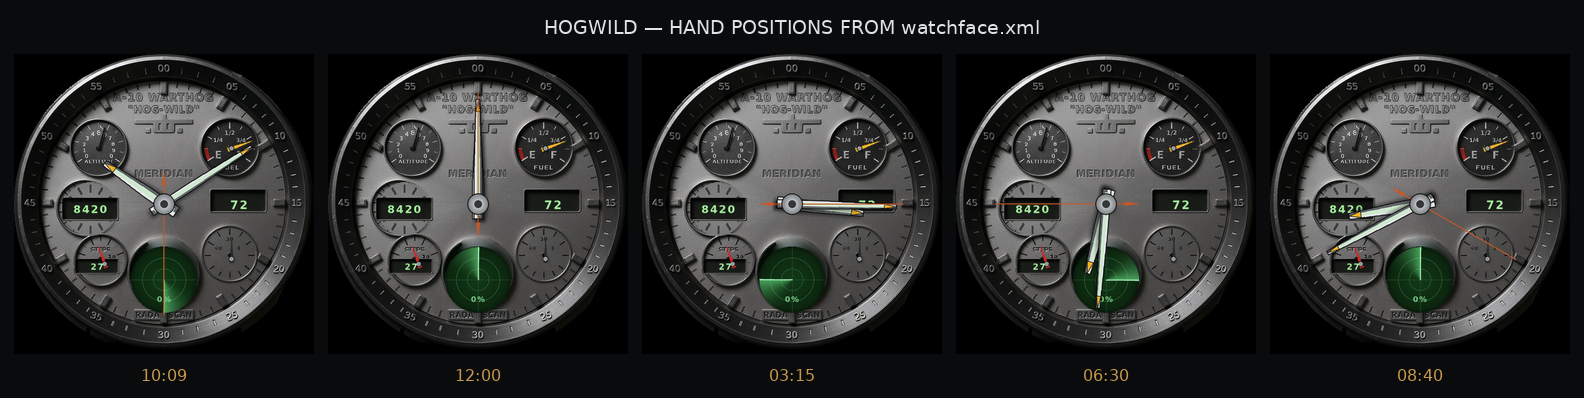
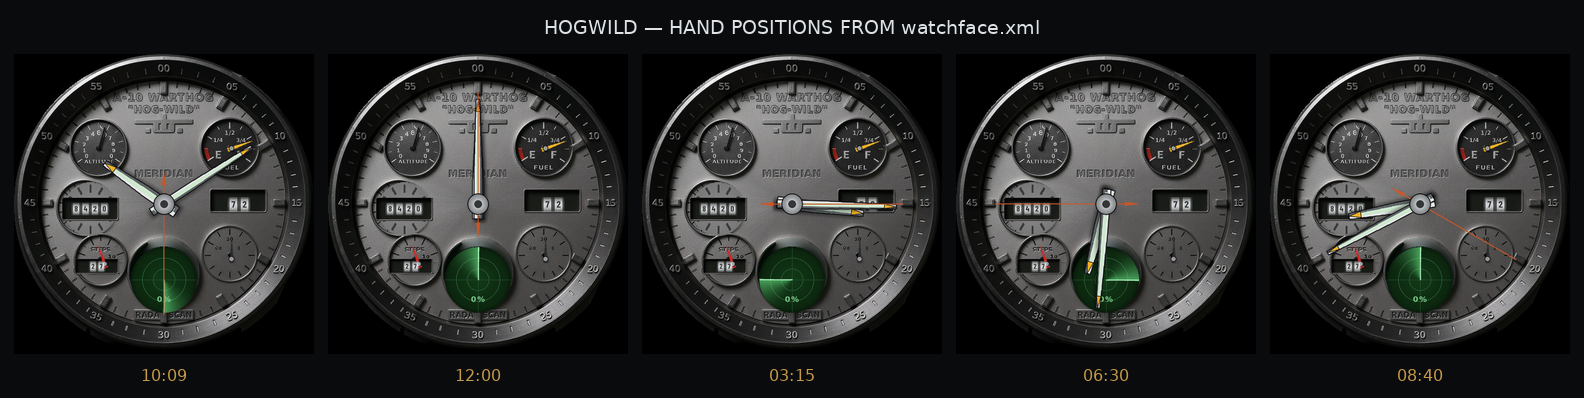
HOG-WILD 1.3.1: combination-lock wheels for the live numbers
Owner call on 1.3.0: the readouts would look better "metal and knurled and
rotatable like the numbers on a suitcase lock". Correct — the design
language says instrumentation, never a widget, and phosphor is a screen.

- tools/make_wheel_font.py draws the `wheel` bitmap font: each glyph a
  complete lock wheel — knurled flanks that seam into a wheel bank when
  cells sit flush, cylindrical drum shading, engraved numeral (Barlow
  Condensed Bold, shadowed upper edge / lit lower lip). Bitmap fonts are
  alpha masks (colour is discarded and replaced by the BitmapFont colour),
  so the wheel ships as relief in the alpha channel; the engraved cut goes
  transparent and the aperture's darkness does the ink's job.
- face.toml: steps, heart rate and date move to wheel digits in steel
  (#E8EAEE); the scope percentage stays phosphor — printed on a CRT, not
  machined into one. HR gains a lume twin (alpha 0 normal / 120 AOD) so
  ambient keeps its outline-and-lume theme instead of glowing steel.
- wffgen: text_line grows `alpha` (normal-mode, default 255) to enable the
  AOD-twin pattern; the attribute is emitted only when non-default, so
  warthog / attitude-meridian / aurelius stay byte-identical (drift-checked).

WFF cannot roll a drum on a text element: the rotation is sold by shading.
38 tests pass, WFF v4 validator PASSED. 1.3.0-dev (7) -> 1.3.1-dev (8).

Claude-Session: https://claude.ai/code/session_012oBAeTzEMH5P89VxC7vfDR

diff --git a/tools/make_wheel_font.py b/tools/make_wheel_font.py
@@ -1,0 +1,140 @@
+#!/usr/bin/env python3
+"""Combination-lock wheel digits for HOG-WILD: the `wheel` bitmap font.
+
+The 1.3.0 readability pass put the live numbers in honest apertures, but it
+painted them as LCD phosphor — a screen, on a dial whose design language
+says instrumentation, never a widget. A cockpit counter is a drum: this
+draws every digit as one wheel of a combination lock seen through its slot.
+
+ANATOMY OF A CELL. Each glyph is a complete wheel column, so a multi-digit
+reading composes into a wheel bank with no extra layout work:
+
+- knurled flanks: horizontal ridge serrations at both edges — the grip you
+  would thumb to spin the wheel, and the visual seam between adjacent
+  wheels when cells sit flush;
+- drum face: brushed steel with a cylindrical vertical falloff — bright at
+  the equator, rolling off dark at top and bottom, with detent shadow lines
+  where the neighbouring digit positions turn away;
+- numeral: engraved, not printed — dark fill, shadowed upper edge, lit
+  lower lip, per roadmap/DESIGN_LANGUAGE.md.
+
+BITMAP FONTS ARE ALPHA MASKS. The format's text pipeline keeps a glyph's
+alpha channel and replaces its colour wholesale with the BitmapFont colour
+attribute (tools/render_face_from_xml.py `tint()` models this). A glyph
+therefore cannot ship colour — it ships RELIEF: the wheel is drawn in
+luminance and the luminance becomes alpha, so the declared steel tint reads
+at full strength on the drum's lit equator, thins toward the rolled-away
+edges, and vanishes in the engraved digit cut, where the aperture's own
+darkness does the ink's job. WFF cannot roll a drum on a text element —
+the rotation is sold by shading, not animation.
+
+Deterministic: pure function of geometry; no seeds, no timestamps.
+
+Usage:
+    python3 tools/make_wheel_font.py            # report
+    python3 tools/make_wheel_font.py --write
+"""
+
+from __future__ import annotations
+
+import argparse
+import math
+import sys
+from pathlib import Path
+
+from PIL import Image, ImageDraw, ImageFont
+
+REPO = Path(__file__).resolve().parent.parent
+DRAWABLE = REPO / "watchfaces/hogwild/app/src/main/res/drawable"
+FONT_TTF = Path.home() / ".local/share/fonts/BarlowCondensed-Bold.ttf"
+
+SS = 4                       # supersample factor
+CELL_W, CELL_H = 34, 46      # shipped glyph size (declared in face.toml)
+FLANK_W = 5                  # knurled strip width per side, shipped px
+
+
+def drum_shade(y: float, h: float) -> float:
+    """Cylinder illumination for a horizontal-axis drum: 1.0 at the
+    equator, rolling off with the cosine of the wrap angle."""
+    t = abs(y - h / 2) / (h / 2)         # 0 centre -> 1 edge
+    return max(0.18, math.cos(t * 1.25))
+
+
+def draw_wheel(digit: str) -> Image.Image:
+    w, h = CELL_W * SS, CELL_H * SS
+    img = Image.new("RGBA", (w, h), (0, 0, 0, 255))
+    d = ImageDraw.Draw(img)
+    flank = FLANK_W * SS
+
+    # ---- drum face: brushed steel under cylindrical light ----
+    face_x0, face_x1 = flank, w - flank
+    for y in range(h):
+        s = drum_shade(y, h)
+        base = 168 * s
+        # fine vertical brushing: a deterministic per-column jitter
+        for x in range(face_x0, face_x1):
+            b = base + 14 * math.sin(x * 1.7 + (x % 5)) * 0.5
+            v = int(max(12, min(236, b)))
+            d.point((x, y), (v, v, min(255, v + 4), 255))
+
+    # detent shadows where the neighbour digit positions turn away
+    for yy in (int(h * 0.06), int(h * 0.94)):
+        d.line([(face_x0, yy), (face_x1, yy)], fill=(10, 10, 12, 255),
+               width=SS)
+
+    # ---- knurled flanks: horizontal ridges, darker than the face ----
+    ridge_p = 3 * SS                     # ridge period
+    for side_x0 in (0, w - flank):
+        for y in range(h):
+            s = drum_shade(y, h) * 0.62
+            phase = (y % ridge_p) / ridge_p
+            ridge = 0.55 + 0.45 * math.cos(phase * 2 * math.pi)
+            v = int(max(6, min(190, 150 * s * ridge)))
+            d.line([(side_x0, y), (side_x0 + flank - 1, y)],
+                   fill=(v, v, v, 255))
+        # seam between flank and face
+        seam_x = side_x0 + (flank - SS if side_x0 == 0 else 0)
+        d.rectangle([seam_x, 0, seam_x + SS - 1, h], fill=(8, 8, 9, 255))
+
+    # ---- the numeral: engraved into the drum ----
+    fnt = ImageFont.truetype(str(FONT_TTF), int(h * 0.62))
+    bbox = d.textbbox((0, 0), digit, font=fnt)
+    tx = (face_x0 + face_x1) / 2 - (bbox[0] + bbox[2]) / 2
+    ty = h / 2 - (bbox[1] + bbox[3]) / 2
+    # lit lower lip first, then the dark cut over it
+    d.text((tx, ty + SS), digit, font=fnt, fill=(228, 230, 234, 200))
+    d.text((tx, ty - SS // 2), digit, font=fnt, fill=(24, 25, 28, 255))
+
+    img = img.resize((CELL_W, CELL_H), Image.LANCZOS)
+
+    # luminance -> alpha (boosted so lit steel renders near-solid), colour
+    # discarded: the BitmapFont tint supplies it at render time
+    lum = img.convert("L").point(lambda v: min(255, int(v * 1.35)))
+    out = Image.new("RGBA", img.size, (255, 255, 255, 0))
+    out.putalpha(lum)
+    return out
+
+
+def main() -> int:
+    ap = argparse.ArgumentParser()
+    ap.add_argument("--write", action="store_true")
+    args = ap.parse_args()
+
+    if not FONT_TTF.exists():
+        print(f"missing numeral typeface: {FONT_TTF}", file=sys.stderr)
+        return 1
+
+    for n in range(10):
+        glyph = draw_wheel(str(n))
+        out = DRAWABLE / f"w_{n}.png"
+        if args.write:
+            glyph.save(out)
+            print(f"wrote {out.relative_to(REPO)}")
+        else:
+            print(f"would write {out.relative_to(REPO)}  "
+                  f"({CELL_W}x{CELL_H})")
+    return 0
+
+
+if __name__ == "__main__":
+    sys.exit(main())

diff --git a/engine/wffgen/components.py b/engine/wffgen/components.py
@@ -695,9 +695,13 @@ def horizon_field(name: str, resource: str, box: dict, aod: AmbientPolicy,
 def text_line(name: str, box: dict, aod: AmbientPolicy, font_family: str,
               size: int, color: str, template: str,
               expressions_: list[str], align: str = "CENTER",
-              gate: str | None = None) -> Component:
+              gate: str | None = None, alpha: int = 255) -> Component:
     """Generic bitmap-font text line with N parameters (digital time, data
     readouts). Non-Aurelius generalization of date_text, used by fixtures.
+
+    `alpha` is the NORMAL-mode alpha: 0 with an ambient policy of 255
+    gives an AOD-only readout, the textual twin of static_image's swap
+    mechanism — how a face trades photoreal digits for lume ones at night.
 
     `gate` is an optional boolean expression; when given, the text is wrapped
     in a Condition so it only paints while the expression holds. A readout
@@ -706,9 +710,11 @@ def text_line(name: str, box: dict, aod: AmbientPolicy, font_family: str,
     plausible-looking zero — and a scope legend reading "0%" in weather the
     provider never measured is a lie with confident typography.
     """
-    part = Elem("PartText", {"name": name, "x": str(box["x"]),
-                             "y": str(box["y"]), "width": str(box["width"]),
-                             "height": str(box["height"])})
+    attrs = {"name": name, "x": str(box["x"]), "y": str(box["y"]),
+             "width": str(box["width"]), "height": str(box["height"])}
+    if alpha != 255:          # emitted only when it departs from the
+        attrs["alpha"] = str(alpha)   # default, so existing faces don't drift
+    part = Elem("PartText", attrs)
     part.child(aod.variant())
     tmpl = Elem("Template", text=template)
     for e in expressions_:

diff --git a/engine/wffgen/spec.py b/engine/wffgen/spec.py
@@ -161,7 +161,8 @@ def _build(entry: dict) -> list[C.Component]:
                             int(entry["size"]), entry["color"],
                             entry["template"], list(entry["expressions"]),
                             entry.get("align", "CENTER"),
-                            entry.get("gate"))]
+                            entry.get("gate"),
+                            int(entry.get("alpha", 255)))]
     raise ValueError(f"unknown component type {kind!r} — registry: "
                      "background_pair, rotating_image, seconds_rotor, "
                      "tap_sequence, weather_scene, animated_weather, "

diff --git a/watchfaces/hogwild/README.md b/watchfaces/hogwild/README.md
@@ -29,9 +29,9 @@ moving part became its own layer:
 | **RPM needle** | `[HEART_RATE]`, oscillating |
 | **Radar sweep** | elapsed time, four seconds per revolution |
 | **Radar returns** | `[WEATHER.CHANCE_OF_PRECIPITATION]` painted as PPI echoes, plus a printed percentage on the glass, gated on `[WEATHER.IS_AVAILABLE]` |
-| LCD aperture (3h) | `[HEART_RATE]` — the RPM needle carries the rhythm, this carries the number |
-| LCD aperture (9h) | `[STEP_COUNT]` at size 20, in the sub-dial that used to be painted furniture |
-| Date aperture | `[DAY]`, in the old odometer barrel — two digits, which is what the window has room for |
+| Wheel bank (3h) | `[HEART_RATE]` — the RPM needle carries the rhythm, the wheels carry the number; a green lume twin takes over in ambient |
+| Wheel bank (9h) | `[STEP_COUNT]`, in the sub-dial that used to be painted furniture |
+| Wheel bank (date) | `[DAY]`, in the old odometer barrel — two wheels, which is what the window has room for |
 
 Each needle sits on a sprite sized to its own sub-dial, so WFF pivots it about
 that gauge's centre rather than the dial centre. That is why the boxes in
@@ -90,3 +90,18 @@ rebinds the data):
 - **Heart rate had motion but no number.** The three-o'clock LCD used to
   repeat the time in digits, which the hands already state; it now reads the
   pulse. The RPM needle still shivers at the same rate.
+
+## 1.3.1 — wheels, not phosphor
+
+The 1.3.0 readouts arrived as LCD phosphor: a screen, on a dial whose
+design language says instrumentation, never a widget. 1.3.1 replaces the
+digits with the `wheel` bitmap font (`tools/make_wheel_font.py`): every
+glyph is one wheel of a combination lock — knurled flanks, a
+cylindrically-lit drum face, an engraved numeral — so a reading composes
+into a wheel bank, per the odometer drum the design language always
+specified. Bitmap fonts are alpha masks, so the wheel ships as relief in
+the glyph's alpha channel and the steel is the component colour. The scope
+percentage stays phosphor: it is printed on a CRT, not machined into one.
+WFF cannot roll a drum on a text element — the rotation is a look, not an
+animation. In ambient the steel goes dark with the plate and a green lume
+twin carries the heart rate.
